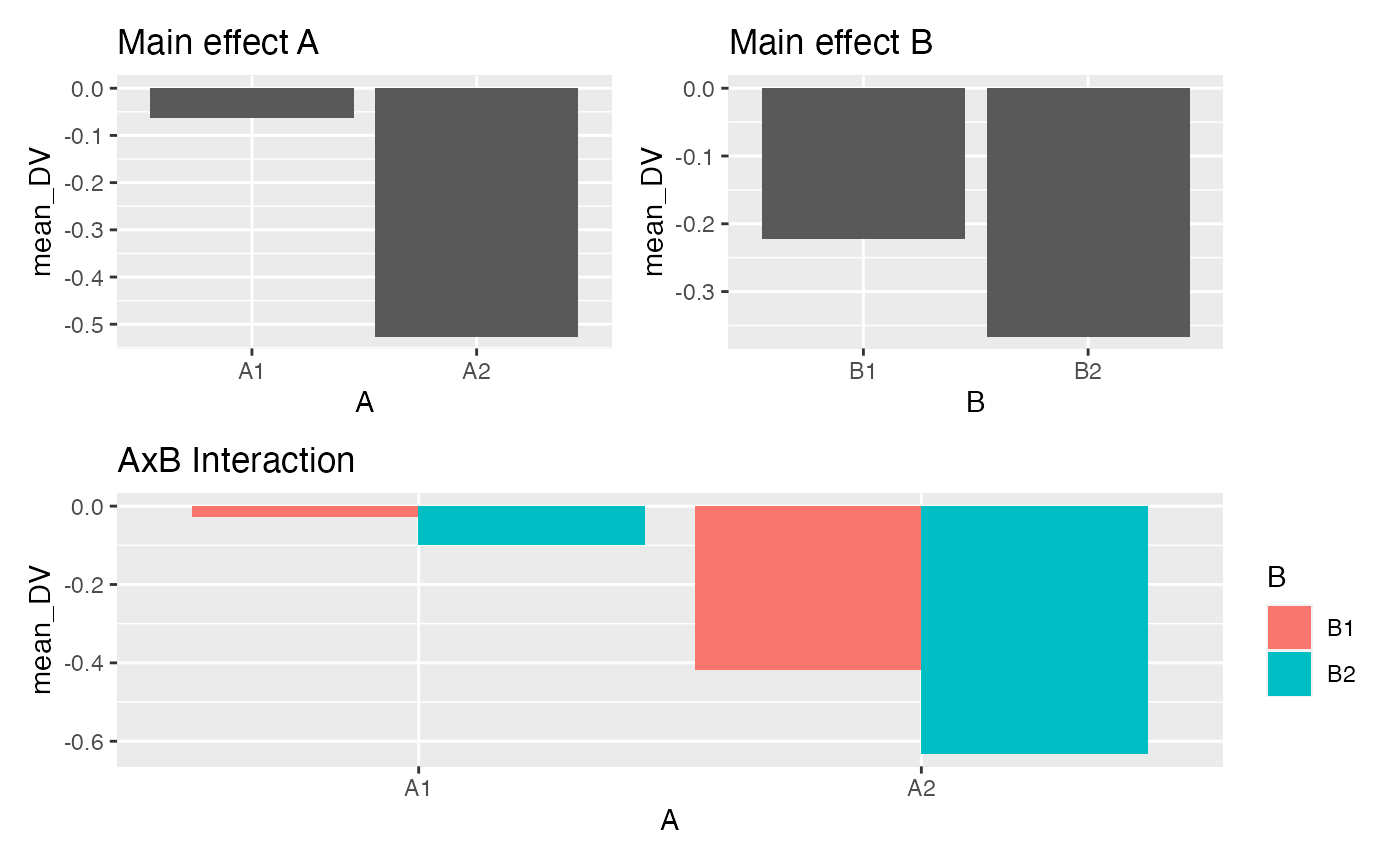
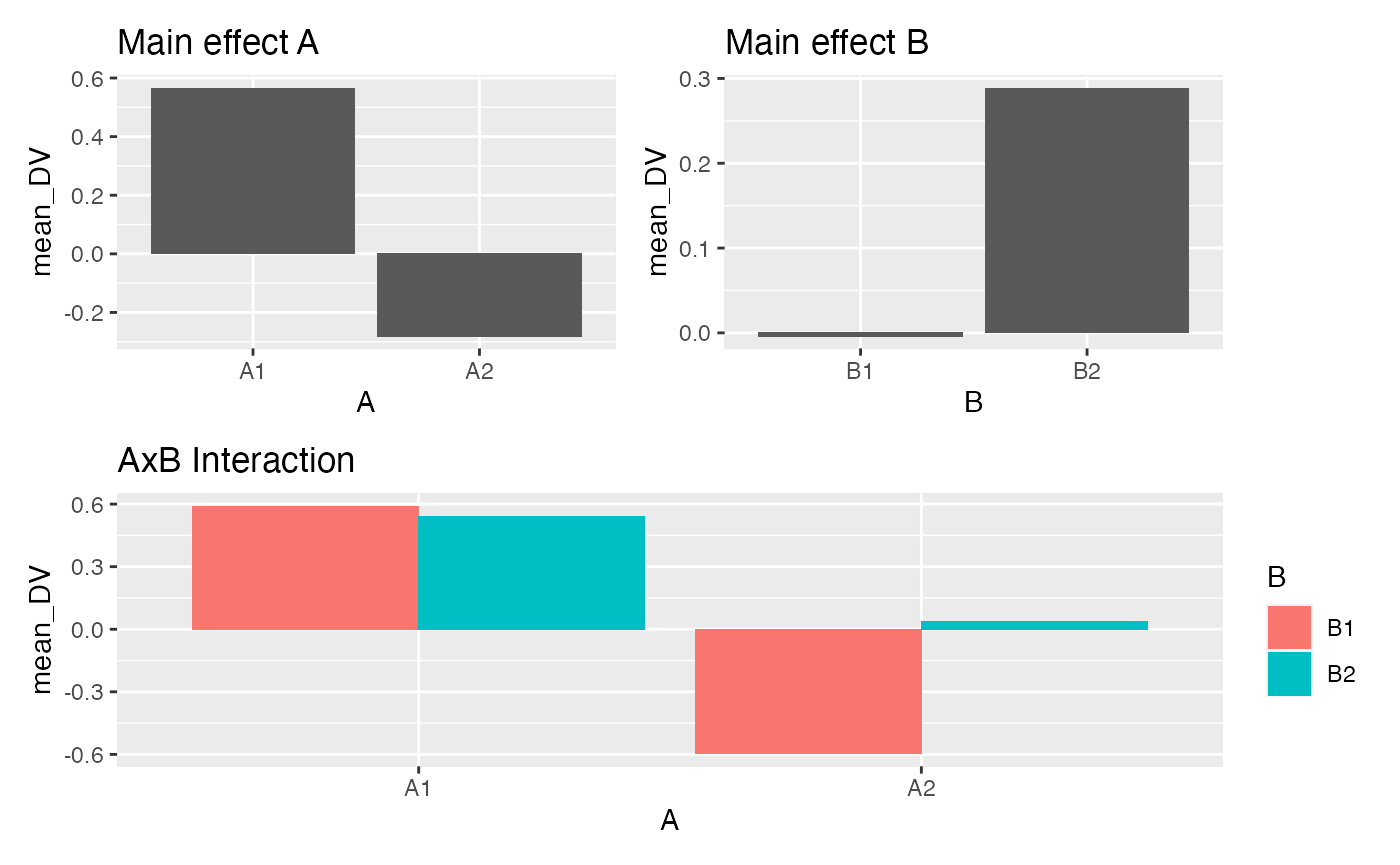
update factorial

diff --git a/docs/articles/Stats2/Lab7_Factorial_ANOVA.html b/docs/articles/Stats2/Lab7_Factorial_ANOVA.html
@@ -276,31 +276,31 @@
 <code class="sourceCode R"><span class="va">aov_out</span> <span class="op">&lt;-</span> <span class="fu"><a href="https://rdrr.io/r/stats/aov.html" class="external-link">aov</a></span><span class="op">(</span><span class="va">DV</span> <span class="op">~</span> <span class="va">A</span><span class="op">*</span><span class="va">B</span>, data <span class="op">=</span> <span class="va">factorial_data</span><span class="op">)</span>
 <span class="fu"><a href="https://rdrr.io/r/base/summary.html" class="external-link">summary</a></span><span class="op">(</span><span class="va">aov_out</span><span class="op">)</span>
 <span class="co">#&gt;             Df Sum Sq Mean Sq F value Pr(&gt;F)</span>
-<span class="co">#&gt; A            1  0.287  0.2871   0.276  0.607</span>
-<span class="co">#&gt; B            1  0.378  0.3781   0.363  0.555</span>
-<span class="co">#&gt; A:B          1  1.450  1.4497   1.393  0.255</span>
-<span class="co">#&gt; Residuals   16 16.650  1.0406</span>
+<span class="co">#&gt; A            1  0.121  0.1209   0.084  0.776</span>
+<span class="co">#&gt; B            1  0.309  0.3086   0.215  0.649</span>
+<span class="co">#&gt; A:B          1  0.273  0.2732   0.190  0.669</span>
+<span class="co">#&gt; Residuals   16 23.018  1.4386</span>
 <span class="fu"><a href="https://rdrr.io/r/stats/model.tables.html" class="external-link">model.tables</a></span><span class="op">(</span><span class="va">aov_out</span>, type <span class="op">=</span> <span class="st">"means"</span><span class="op">)</span>
 <span class="co">#&gt; Tables of means</span>
 <span class="co">#&gt; Grand mean</span>
-<span class="co">#&gt;            </span>
-<span class="co">#&gt; -0.4818831 </span>
+<span class="co">#&gt;           </span>
+<span class="co">#&gt; 0.5730558 </span>
 <span class="co">#&gt; </span>
 <span class="co">#&gt;  A </span>
 <span class="co">#&gt; A</span>
-<span class="co">#&gt;      L1      L2 </span>
-<span class="co">#&gt; -0.6017 -0.3621 </span>
+<span class="co">#&gt;     L1     L2 </span>
+<span class="co">#&gt; 0.6508 0.4953 </span>
 <span class="co">#&gt; </span>
 <span class="co">#&gt;  B </span>
 <span class="co">#&gt; B</span>
-<span class="co">#&gt;      L1      L2 </span>
-<span class="co">#&gt; -0.6194 -0.3444 </span>
+<span class="co">#&gt;     L1     L2 </span>
+<span class="co">#&gt; 0.6973 0.4488 </span>
 <span class="co">#&gt; </span>
 <span class="co">#&gt;  A:B </span>
 <span class="co">#&gt;     B</span>
-<span class="co">#&gt; A    L1      L2     </span>
-<span class="co">#&gt;   L1 -0.4700 -0.7334</span>
-<span class="co">#&gt;   L2 -0.7688  0.0447</span></code></pre></div>
+<span class="co">#&gt; A    L1     L2    </span>
+<span class="co">#&gt;   L1 0.8919 0.4097</span>
+<span class="co">#&gt;   L2 0.5027 0.4880</span></code></pre></div>
 <p>Briefly, if you had factorial design with three IVs, you would another <code>*</code> in the formula along with the name of the third IV. For example, <code>DV_name ~ IV1_name * IV2_name * IV3_name</code>.</p>
 </div>
 <div class="section level3">
@@ -316,14 +316,14 @@
 
 <span class="fu"><a href="https://rdrr.io/r/base/summary.html" class="external-link">summary</a></span><span class="op">(</span><span class="fu"><a href="https://rdrr.io/r/stats/aov.html" class="external-link">aov</a></span><span class="op">(</span><span class="va">DV</span> <span class="op">~</span> <span class="va">A</span><span class="op">*</span><span class="va">B</span><span class="op">*</span><span class="va">C</span>, data <span class="op">=</span> <span class="va">factorial_data</span><span class="op">)</span><span class="op">)</span>
 <span class="co">#&gt;             Df Sum Sq Mean Sq F value Pr(&gt;F)</span>
-<span class="co">#&gt; A            1   1.48  1.4835   0.679  0.422</span>
-<span class="co">#&gt; B            1   0.01  0.0140   0.006  0.937</span>
-<span class="co">#&gt; C            1   2.20  2.2013   1.007  0.330</span>
-<span class="co">#&gt; A:B          1   0.65  0.6517   0.298  0.593</span>
-<span class="co">#&gt; A:C          1   2.08  2.0846   0.954  0.343</span>
-<span class="co">#&gt; B:C          1   0.19  0.1859   0.085  0.774</span>
-<span class="co">#&gt; A:B:C        1   1.00  1.0032   0.459  0.508</span>
-<span class="co">#&gt; Residuals   16  34.96  2.1850</span></code></pre></div>
+<span class="co">#&gt; A            1  0.503  0.5032   0.703  0.414</span>
+<span class="co">#&gt; B            1  2.073  2.0727   2.897  0.108</span>
+<span class="co">#&gt; C            1  0.990  0.9898   1.384  0.257</span>
+<span class="co">#&gt; A:B          1  0.174  0.1740   0.243  0.629</span>
+<span class="co">#&gt; A:C          1  0.133  0.1330   0.186  0.672</span>
+<span class="co">#&gt; B:C          1  0.545  0.5454   0.762  0.396</span>
+<span class="co">#&gt; A:B:C        1  0.585  0.5854   0.818  0.379</span>
+<span class="co">#&gt; Residuals   16 11.446  0.7154</span></code></pre></div>
 </div>
 <div class="section level3">
 <h3 id="example-with-ggplot">Example with ggplot<a class="anchor" aria-label="anchor" href="#example-with-ggplot"></a>
@@ -349,10 +349,10 @@
 <span class="co">#&gt; <span style="color: #949494;"># Groups:   A [2]</span></span>
 <span class="co">#&gt;   A     B     mean_DV</span>
 <span class="co">#&gt;   <span style="color: #949494; font-style: italic;">&lt;fct&gt;</span> <span style="color: #949494; font-style: italic;">&lt;fct&gt;</span>   <span style="color: #949494; font-style: italic;">&lt;dbl&gt;</span></span>
-<span class="co">#&gt; <span style="color: #BCBCBC;">1</span> A1    B1    -<span style="color: #BB0000;">0.026</span><span style="color: #BB0000; text-decoration: underline;">9</span></span>
-<span class="co">#&gt; <span style="color: #BCBCBC;">2</span> A1    B2    -<span style="color: #BB0000;">0.098</span><span style="color: #BB0000; text-decoration: underline;">9</span></span>
-<span class="co">#&gt; <span style="color: #BCBCBC;">3</span> A2    B1    -<span style="color: #BB0000;">0.418</span> </span>
-<span class="co">#&gt; <span style="color: #BCBCBC;">4</span> A2    B2    -<span style="color: #BB0000;">0.632</span></span>
+<span class="co">#&gt; <span style="color: #BCBCBC;">1</span> A1    B1     0.590 </span>
+<span class="co">#&gt; <span style="color: #BCBCBC;">2</span> A1    B2     0.540 </span>
+<span class="co">#&gt; <span style="color: #BCBCBC;">3</span> A2    B1    -<span style="color: #BB0000;">0.598</span> </span>
+<span class="co">#&gt; <span style="color: #BCBCBC;">4</span> A2    B2     0.036<span style="text-decoration: underline;">9</span></span>
 
 <span class="co"># look at the means in a plot</span>
 <span class="va">factorial_data</span> <span class="op"><a href="https://magrittr.tidyverse.org/reference/pipe.html" class="external-link">%&gt;%</a></span>
@@ -395,34 +395,34 @@
 <span class="va">aov_out</span> <span class="op">&lt;-</span> <span class="fu"><a href="https://rdrr.io/r/stats/aov.html" class="external-link">aov</a></span><span class="op">(</span><span class="va">DV</span> <span class="op">~</span> <span class="va">A</span><span class="op">*</span><span class="va">B</span>, data <span class="op">=</span> <span class="va">factorial_data</span><span class="op">)</span>
 <span class="fu"><a href="https://rdrr.io/r/base/summary.html" class="external-link">summary</a></span><span class="op">(</span><span class="va">aov_out</span><span class="op">)</span>
 <span class="co">#&gt;             Df Sum Sq Mean Sq F value Pr(&gt;F)</span>
-<span class="co">#&gt; A            1  1.067  1.0675   0.721  0.408</span>
-<span class="co">#&gt; B            1  0.103  0.1027   0.069  0.796</span>
-<span class="co">#&gt; A:B          1  0.025  0.0255   0.017  0.897</span>
-<span class="co">#&gt; Residuals   16 23.688  1.4805</span>
+<span class="co">#&gt; A            1  3.575   3.575   2.872  0.109</span>
+<span class="co">#&gt; B            1  0.427   0.427   0.343  0.566</span>
+<span class="co">#&gt; A:B          1  0.586   0.586   0.471  0.502</span>
+<span class="co">#&gt; Residuals   16 19.913   1.245</span>
 
 <span class="co"># ANOVA means</span>
 <span class="co"># print to console</span>
 <span class="fu"><a href="https://rdrr.io/r/stats/model.tables.html" class="external-link">model.tables</a></span><span class="op">(</span><span class="va">aov_out</span>, type <span class="op">=</span> <span class="st">"means"</span><span class="op">)</span>
 <span class="co">#&gt; Tables of means</span>
 <span class="co">#&gt; Grand mean</span>
-<span class="co">#&gt;            </span>
-<span class="co">#&gt; -0.2939377 </span>
+<span class="co">#&gt;           </span>
+<span class="co">#&gt; 0.1423662 </span>
 <span class="co">#&gt; </span>
 <span class="co">#&gt;  A </span>
 <span class="co">#&gt; A</span>
 <span class="co">#&gt;      A1      A2 </span>
-<span class="co">#&gt; -0.0629 -0.5250 </span>
+<span class="co">#&gt;  0.5651 -0.2804 </span>
 <span class="co">#&gt; </span>
 <span class="co">#&gt;  B </span>
 <span class="co">#&gt; B</span>
-<span class="co">#&gt;      B1      B2 </span>
-<span class="co">#&gt; -0.2223 -0.3656 </span>
+<span class="co">#&gt;       B1       B2 </span>
+<span class="co">#&gt; -0.00372  0.28845 </span>
 <span class="co">#&gt; </span>
 <span class="co">#&gt;  A:B </span>
 <span class="co">#&gt;     B</span>
 <span class="co">#&gt; A    B1      B2     </span>
-<span class="co">#&gt;   A1 -0.0269 -0.0989</span>
-<span class="co">#&gt;   A2 -0.4176 -0.6323</span></code></pre></div>
+<span class="co">#&gt;   A1  0.5903  0.5400</span>
+<span class="co">#&gt;   A2 -0.5977  0.0369</span></code></pre></div>
 </div>
 </div>
 <div class="section level2">
@@ -572,7 +572,7 @@
   <span class="fu"><a href="https://dplyr.tidyverse.org/reference/count.html" class="external-link">count</a></span><span class="op">(</span><span class="op">)</span>
   
 <span class="fu"><a href="https://rdrr.io/r/base/dim.html" class="external-link">dim</a></span><span class="op">(</span><span class="va">type_I_errors</span><span class="op">)</span><span class="op">[</span><span class="fl">1</span><span class="op">]</span><span class="op">/</span><span class="fl">10000</span>
-<span class="co">#&gt; [1] 0.141</span></code></pre></div>
+<span class="co">#&gt; [1] 0.1358</span></code></pre></div>
 <p>If we look at the type I error rates separately for each main effect and interaction what do we find?</p>
 <div class="sourceCode" id="cb13"><pre class="downlit sourceCode r">
 <code class="sourceCode R"><span class="va">save_sim</span> <span class="op"><a href="https://magrittr.tidyverse.org/reference/pipe.html" class="external-link">%&gt;%</a></span>
@@ -581,15 +581,15 @@
 <span class="co">#&gt; <span style="color: #949494;"># A tibble: 3 × 2</span></span>
 <span class="co">#&gt;   effect type_I_error</span>
 <span class="co">#&gt;   <span style="color: #949494; font-style: italic;">&lt;chr&gt;</span>         <span style="color: #949494; font-style: italic;">&lt;dbl&gt;</span></span>
-<span class="co">#&gt; <span style="color: #BCBCBC;">1</span> A            0.053<span style="text-decoration: underline;">5</span></span>
-<span class="co">#&gt; <span style="color: #BCBCBC;">2</span> AxB          0.052<span style="text-decoration: underline;">2</span></span>
-<span class="co">#&gt; <span style="color: #BCBCBC;">3</span> B            0.048<span style="text-decoration: underline;">9</span></span></code></pre></div>
+<span class="co">#&gt; <span style="color: #BCBCBC;">1</span> A            0.049<span style="text-decoration: underline;">8</span></span>
+<span class="co">#&gt; <span style="color: #BCBCBC;">2</span> AxB          0.047<span style="text-decoration: underline;">8</span></span>
+<span class="co">#&gt; <span style="color: #BCBCBC;">3</span> B            0.049<span style="text-decoration: underline;">9</span></span></code></pre></div>
 <p>The conclusion here is Factorial ANOVAs are not protected against family-wise type I error rate. As you increase the number of IVs, you will increase the likelihood of finding at least one “significant” effect among the main effects and interactions.</p>
 <p>Finally, here’s a quick alternative simulation using <code><a href="https://rdrr.io/r/stats/Binomial.html" class="external-link">rbinom()</a></code>. I set the number of simulations to 10000, the size to 3 (representing three independent tests), and I set the probability of getting 1 to .05. Last, I counted how many of results had a value greater than 0 (representing a type I error), and divided by 10000 (the number of simulations) to estimate the family-wise error rate.</p>
 <div class="sourceCode" id="cb14"><pre class="downlit sourceCode r">
 <code class="sourceCode R"><span class="va">a</span> <span class="op">&lt;-</span> <span class="fu"><a href="https://rdrr.io/r/stats/Binomial.html" class="external-link">rbinom</a></span><span class="op">(</span><span class="fl">10000</span>,<span class="fl">3</span>,<span class="fl">.05</span><span class="op">)</span>
 <span class="fu"><a href="https://rdrr.io/r/base/length.html" class="external-link">length</a></span><span class="op">(</span><span class="va">a</span><span class="op">[</span><span class="va">a</span><span class="op">&gt;</span><span class="fl">0</span><span class="op">]</span><span class="op">)</span><span class="op">/</span><span class="fl">10000</span>
-<span class="co">#&gt; [1] 0.1406</span></code></pre></div>
+<span class="co">#&gt; [1] 0.1459</span></code></pre></div>
 </div>
 <div class="section level2">
 <h2 id="lab-7-generalization-assignment">Lab 7 Generalization Assignment<a class="anchor" aria-label="anchor" href="#lab-7-generalization-assignment"></a>
@@ -618,6 +618,7 @@
 <li><p>Complete the 2x2 factorial lab found here <a href="https://crumplab.github.io/statisticsLab/lab-10-factorial-anova.html" class="external-link uri">https://crumplab.github.io/statisticsLab/lab-10-factorial-anova.html</a>, up to section 10.4.8. More specifically, your task is to follow that lab exercise to load in the data, transform the data into long-format, conduct a 2x2 between subjects ANOVA, and write a short results section reporting the main effects and interaction. (3 points)</p></li>
 <li><p>In chapter 10 of <span class="citation">Crump et al. (<a href="#ref-crumpAnsweringQuestionsData2018" role="doc-biblioref">2018</a>)</span>, there is a discussion of patterns of main effects and interactions that can occur in a 2x2 design, which represents perhaps the simplest factorial design. There are 8 possible outcomes discussed <a href="https://crumplab.github.io/statistics/more-on-factorial-designs.html#looking-at-main-effects-and-interactions" class="external-link uri">https://crumplab.github.io/statistics/more-on-factorial-designs.html#looking-at-main-effects-and-interactions</a>. Examples of these 8 outcomes are shown in two figures, one with bar graphs, and one with line graphs. Reproduce either of these figures using ggplot2. (3 points)</p></li>
 <li><p>In the conceptual section of this lab we used an R simulation to find the family-wise type I error rate for a simple factorial design with 2 independent variables. Use an R simulation to find the family-wise type I error rate for a factorial design with 3 independent variables. (3 points)</p></li>
+<li><p>Show that a 2x2 factorial ANOVA can be accomplished by using a one-factor ANOVA with three linear contrasts. (3 points)</p></li>
 </ol>
 </div>
 </div>
